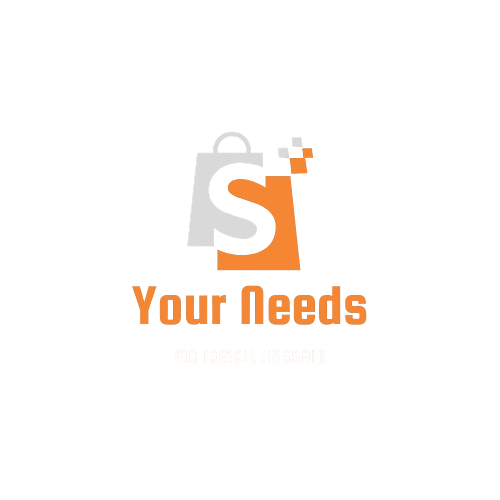
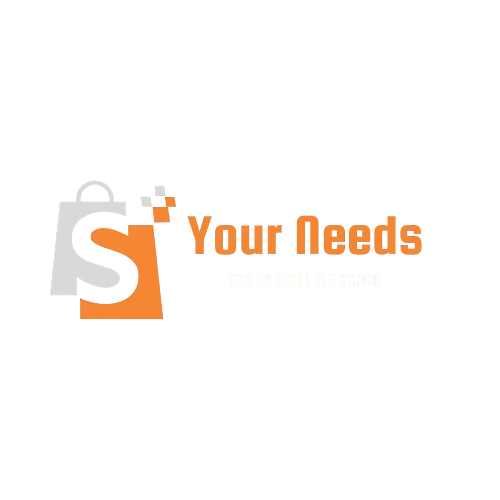
hello

Changed region(s): [[0.09, 0.24, 0.84, 0.66], [0.48, 0.57, 0.75, 0.66]]

diff --git a/Department-Store/pages/common_pages/sidebar.php b/Department-Store/pages/common_pages/sidebar.php
@@ -1,5 +1,5 @@
-<aside style="background-color:rgb(104, 162, 238)" class="app-sidebar shadow" data-bs-theme="dark"> <!--begin::Sidebar Brand-->
-            <div class="sidebar-brand"> <!--begin::Brand Link--> <a href="./index.html" class="brand-link"> <!--begin::Brand Image--> <img src="./asstes/images/Your_Needs1.png" alt="AdminLTE Logo" ></a> <!--end::Brand Link--> </div> <!--end::Sidebar Brand--> <!--begin::Sidebar Wrapper-->
+<aside style="background-color:rgb(2, 1, 10)" class="app-sidebar shadow" data-bs-theme="dark"> <!--begin::Sidebar Brand-->
+            <div class="sidebar-brand" style="height:100px"> <!--begin::Brand Link--> <a href="dashboard.php" class="brand-link"> <!--begin::Brand Image--> <img class="img-fluid" src="./asstes/images/Your_Needs1.png" alt="Logo" ></a> <!--end::Brand Link--> </div> <!--end::Sidebar Brand--> <!--begin::Sidebar Wrapper-->
             <div class="sidebar-wrapper">
                 <nav class="mt-2"> <!--begin::Sidebar Menu-->
                     <ul class="nav sidebar-menu flex-column" data-lte-toggle="treeview" role="menu" data-accordion="false">
@@ -17,10 +17,10 @@
                                 </p>
                             </a>
                             <ul class="nav nav-treeview">
-                                <li class="nav-item"> <a href="#" class="nav-link"><i class="bi bi-arrow-right-short fs-6 ms-3"></i>
+                                <li class="nav-item"> <a href="add_purchase.php" class="nav-link"><i class="bi bi-arrow-right-short fs-6 ms-3"></i>
                                         <p>Add New Sell</p>
                                     </a> </li>
-                                <li class="nav-item"> <a href="#" class="nav-link"><i class="bi bi-arrow-right-short fs-6 ms-3"></i>
+                                <li class="nav-item"> <a href="purchase_history.php" class="nav-link"><i class="bi bi-arrow-right-short fs-6 ms-3"></i>
                                         <p>Sell List</p>
                                     </a> </li>
                                 

diff --git a/Department-Store/purchase_history.php b/Department-Store/purchase_history.php
@@ -28,12 +28,12 @@
                             <title>Order History</title>
                             <!------------------------- design start  ---------------------->
                             <style>
-                                body {
+                                /* body {
                                     font-family: Arial, sans-serif;
                                     margin: 20px;
                                     background-color: #f9f9f9;
                                     color: #333;
-                                }
+                                } */
 
                                 h2 {
                                     text-align: center;

diff --git a/Department-Store/add_product.php b/Department-Store/add_product.php
@@ -23,12 +23,12 @@
                         <meta name="viewport" content="width=device-width, initial-scale=1.0">
                         <title>Product Management</title>
                         <style>
-                            body {
+                            /* body {
                                 font-family: Arial, sans-serif;
                                 margin: 20px;
                                 background-color: #f4f4f9;
                                 color: #333;
-                            }
+                            } */
 
                             h2, h3 {
                                 text-align: center;

diff --git a/Department-Store/product_list.php b/Department-Store/product_list.php
@@ -32,12 +32,12 @@
                         <meta name="viewport" content="width=device-width, initial-scale=1.0">
                         <title>Product Management</title>
                         <style>
-                            body {
+                            /* body {
                                 font-family: Arial, sans-serif;
                                 margin: 20px;
                                 background-color: #f4f4f9;
                                 color: #333;
-                            }
+                            } */
 
                             h2, h3 {
                                 text-align: center;

diff --git a/Department-Store/add_purchase.php b/Department-Store/add_purchase.php
@@ -58,12 +58,12 @@
                         <meta name="viewport" content="width=device-width, initial-scale=1.0">
                         <title>POS</title>
                         <style>
-                            body {
+                            /* body {
                                 font-family: Arial, sans-serif;
                                 margin: 20px;
                                 background-color: #f4f4f9;
                                 color: #333;
-                            }
+                            } */
 
                             h2, h3 {
                                 text-align: center;

diff --git a/Department-Store/pages/common_pages/navber.php b/Department-Store/pages/common_pages/navber.php
@@ -1,4 +1,4 @@
-<body class="layout-fixed sidebar-expand-lg bg-body-tertiary"> <!--begin::App Wrapper-->
+<body class=" sidebar-expand-lg bg-body-tertiary"> <!--begin::App Wrapper-->
     <div class="app-wrapper"> <!--begin::Header-->
         
 <nav class="app-header navbar navbar-expand bg-body"> <!--begin::Container-->
